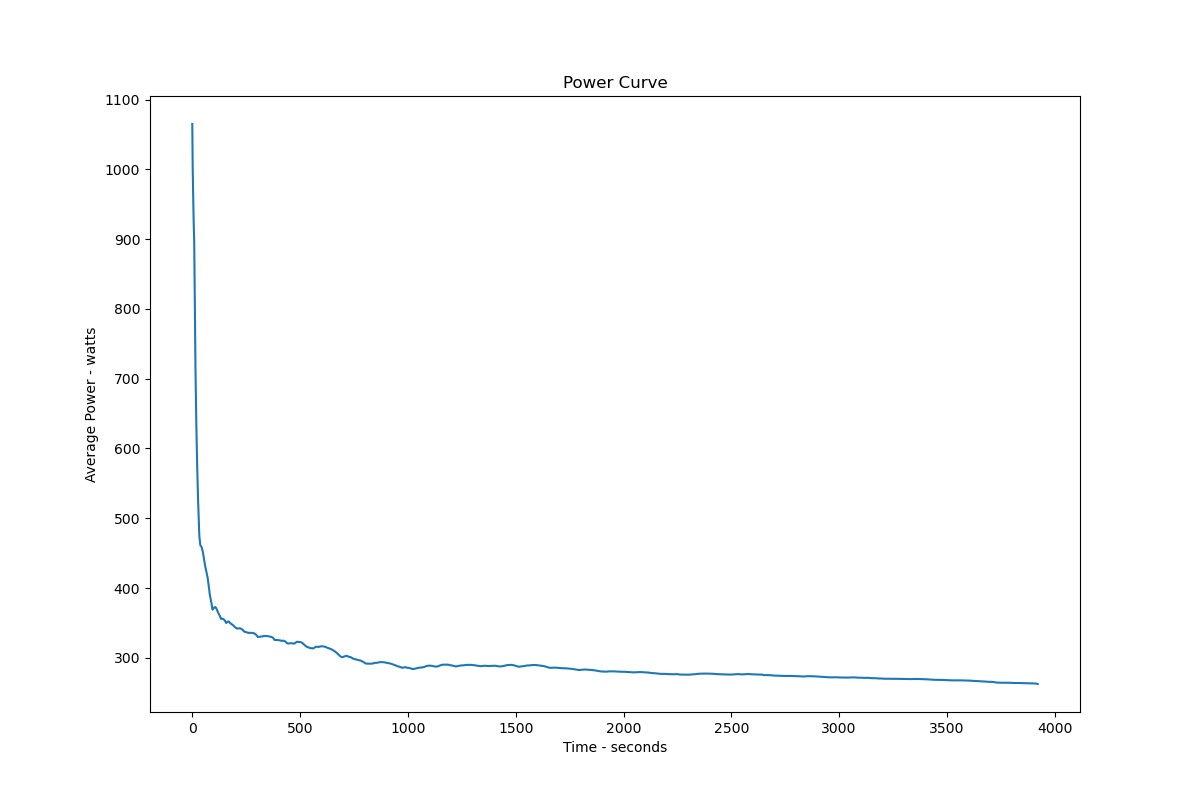
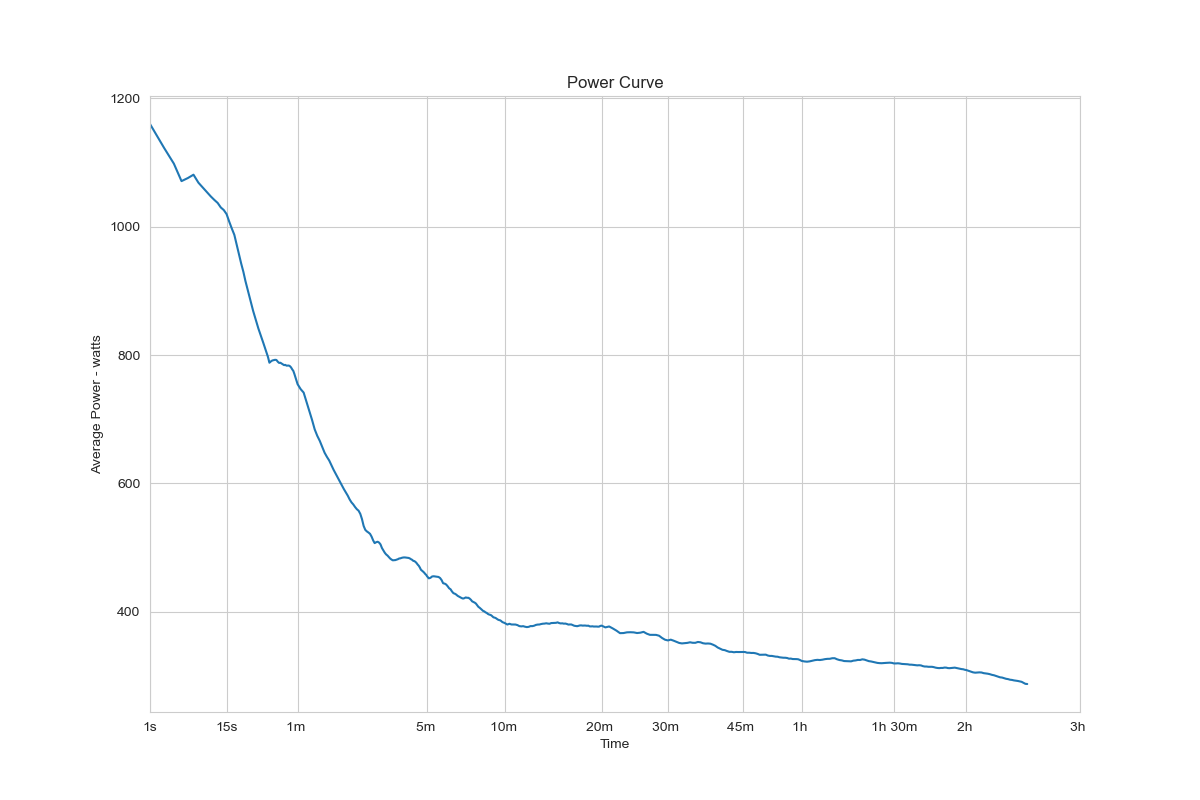
plot results

diff --git a/src/time_interval_helper.py b/src/time_interval_helper.py
@@ -1,0 +1,92 @@
+import numpy as np
+
+# intervals
+# 0 - 60 seconds: 1 second
+# 60 - 5 mins: 3 seconds
+# 5 - 10 mins: 5 seconds
+# 10 - 20 mins: 10 seconds
+# 20 - 60 mins: 30 seconds
+#60 - 120 mins: 45 seconds
+#120 - 3 hours: 1 minute
+# 3 hours +: 5 minutes
+
+def generate_intervals(activity_duration):
+    one_minute = np.arange(1, 60, 1)
+    five_minute = np.arange(60, 300, 3)
+    ten_minute = np.arange(300, 600, 5)
+    twenty_minute = np.arange(600, 1200, 10)
+    sixty_minute = np.arange(1200, 3600, 30)
+    two_hour = np.arange(3600, 7200, 45)
+    three_hour = np.arange(7200, 10800, 60)
+    three_hour_plus = np.arange(7200, activity_duration, 300)
+
+    activity_duration = activity_duration
+    # Activity is longer than 3 hours
+    if activity_duration > 10800:
+        return np.concatenate((one_minute, five_minute, ten_minute, twenty_minute, 
+                               sixty_minute, two_hour, three_hour, three_hour_plus), axis=None)
+    # Activity is 2 to 3 hours
+    if activity_duration > 7200:
+        return np.concatenate((one_minute, five_minute, ten_minute, twenty_minute,sixty_minute, 
+                               two_hour, np.arange(7200, activity_duration, 60)), axis=None)
+    # Activity is 1 to 2 hours
+    if activity_duration > 3600:
+         return np.concatenate((one_minute, five_minute, ten_minute, twenty_minute,
+                               sixty_minute, np.arange(3600, activity_duration, 45)
+                               ), axis=None)
+    # Activity is 20 minutes to 1 hour
+    if activity_duration > 1200:
+         return np.concatenate((one_minute, five_minute, ten_minute, twenty_minute, 
+                                sixty_minute, np.arange(1200, activity_duration, 30)), axis=None)
+    # Activity is 10 to 20 minutes
+    if activity_duration > 600:
+        return np.concatenate((one_minute, five_minute, ten_minute, np.arange(600, activity_duration, 10)), axis=None)
+
+    # Activity is 5 to 10 minutes
+    if activity_duration > 300:
+        return np.concatenate((one_minute, five_minute, np.arange(300, activity_duration, 5)), axis=None)
+    # Activity is less than 5 minutes
+    if  activity_duration > 60:
+        return np.concatenate((one_minute, np.arange(60, activity_duration, 3)), axis=None)
+    
+
+def generate_x_ticks(activity_duration, scale):
+
+    #xticks at one second, 15 seconds, 5 minutes ...
+    xticks = [1, 15, 60, 300, 600, 1200, 1800, 2700, 3600, 5400, 3600 * 2, 3600 * 3, 3600 * 4, 3600 * 5, 3600 * 6, 3600 * 8,
+            3600 * 12, 3600 * 18]
+    
+    # take subset based on activity duration
+    for key, tick in enumerate(xticks):
+        if (activity_duration < tick):
+            xticks = xticks[0:(key+1)]
+            break
+
+    xlabels = []
+    xvalues = []
+
+    # Generate tick marks and labels based on the scale
+    for i in range(0, len(xticks)):
+        xtick_log_value = xticks[i] ** scale
+        try:
+            labelvalue = xticks[i]
+
+            hourvalue = int(labelvalue / 3600)
+            minutevalue = int((labelvalue - hourvalue * 3600) / 60)
+            secondvalue = int(labelvalue - hourvalue * 3600 - minutevalue * 60)
+            if labelvalue < 60:
+                labeltext = str(secondvalue) + 's'
+            elif labelvalue < 3600:
+                labeltext = str(minutevalue) + 'm '
+                if secondvalue != 0:
+                    labeltext += str(secondvalue) + 's'
+            else:
+                labeltext = str(hourvalue) + 'h '
+                if minutevalue != 0:
+                    labeltext += str(minutevalue) + 'm'
+            xvalues.append(xtick_log_value)
+            xlabels.append(labeltext)
+        except:
+            #Reached end of ride
+            continue
+    return xvalues, xlabels

diff --git a/src/kadane-optimization.py b/src/kadane-optimization.py
@@ -1,0 +1,73 @@
+
+import pandas as pd
+import numpy as np
+import seaborn as sns
+import matplotlib.pyplot as plt
+from time_interval_helper import generate_intervals
+from timeit import default_timer as timer
+from plot_helpers import plot_run_time
+from codewong import findMaxAverage
+
+df = pd.read_csv('data/ride-2.csv')
+
+df = df['power'].dropna()
+
+time_intervals = generate_intervals(df.count())
+
+power = df.to_list()
+
+times = []
+bestEfforts = []
+for interval in time_intervals:
+    start = timer()
+    max = findMaxAverage(power, interval)
+    end = timer()
+    times.append(1000 *(end - start))
+    bestEfforts.append(max)
+
+plot_run_time(times, 'Run time - Kadane algorithm with required time intervals', 'figs/run-time-kadane-required-time-intervals.png')
+
+# sns.set_style("whitegrid")
+# # plt.xlabel("Time")
+# # plt.ylabel("Average Power - watts")
+# # plt.savefig('figs/power-curve-v2.png')
+
+
+# plt.figure(figsize=(12,8))
+# sns.lineplot(x=np.arange(0, len(times)), y=times)
+
+# plt.title("Run time - Kadane algorithm with required time intervals", fontsize=14)
+# plt.xlabel("Iteration")
+# plt.ylabel("Time - milliseconds")
+# plt.savefig('figs/run-time-kadane-required-time-intervals.png')
+
+# start = timer()
+times = []
+bestEfforts = []
+for i in range(df.count()):
+    if i > 1:
+        start = timer()
+        max = findMaxAverage(df.to_list(), i)
+        end = timer()
+        times.append(1000 *(end - start))
+        bestEfforts.append(max)
+
+plot_run_time(times, 'Run time - Kadane algorithm', 'figs/run-time-kadane.png')
+# end = timer()
+# print(bestEfforts)
+# print(end - start)
+
+
+# sns.set_style("whitegrid")
+# plt.xlabel("Time")
+# plt.ylabel("Average Power - watts")
+# plt.savefig('figs/power-curve-v2.png')
+
+
+# plt.figure(figsize=(12,8))
+# sns.lineplot(x=np.arange(0, len(times)), y=times)
+
+# plt.title("Run time - Kadane algorithm", fontsize=14)
+# plt.xlabel("Iteration")
+# plt.ylabel("Time - milliseconds")
+# plt.savefig('figs/run-time-kadane.png')

diff --git a/src/best_power_helpers.py b/src/best_power_helpers.py
@@ -14,6 +14,7 @@ def getBestEffort(powerStream: list, previous: list):
         current = []
         j = 0
         max = 0
+        # calculate the rolling window sums, tracking the current max rolling sum
         for key, value in enumerate(powerStream):
             current.append(value + previous[j])
             j += 1
@@ -26,34 +27,18 @@ def getBestEfforts(powerStream: list) -> list:
     bestEfforts = []
     bestEfforts.append(max(powerStream))
     previous = powerStream
+    time = []
     # iterate through time intervals from 2 seconds to duration of activity
     for i in range(len(powerStream) + 1):
         if i > 1:
+            start = timer()
             current, maxPower = getBestEffort(powerStream[(i -1):], previous)
             bestEfforts.append(maxPower/i)
             previous = current
-    return bestEfforts
+            end = timer()
+            time.append(1000 *(end - start))
+    return bestEfforts, time
 
 def get_best_efforts_df(bestEfforts: list) -> pd.DataFrame:
     best_power_df = pd.DataFrame({"power": bestEfforts})
-    best_power_df = best_power_df[best_power_df['power'] > 0]
     return best_power_df
-
-df = pd.read_csv('data/ride.csv')
-
-start = timer()
-bestEfforts = getBestEfforts(df['power'])
-end = timer()
-
-print("Time to calculate best efforts: ", end - start) # Time in seconds, e.g. 5.38091952400282
-best_power_df = get_best_efforts_df(bestEfforts)
-time = np.arange(0, best_power_df['power'].count())
-
-# x_ticks = 1, 10, 
-plt.figure(figsize=(12,8))
-sns.lineplot(x=time, y=best_power_df['power'])
-
-plt.title("Power Curve")
-plt.xlabel("Time - seconds")
-plt.ylabel("Average Power - watts")
-plt.savefig('figs/power-curve.png')

diff --git a/src/plot_helpers.py b/src/plot_helpers.py
@@ -1,0 +1,29 @@
+
+import pandas as pd
+import numpy as np
+import seaborn as sns
+import matplotlib.pyplot as plt
+from time_interval_helper import generate_intervals, generate_x_ticks
+
+def plot_power_curve(intervals, power, xscale: float, file):
+    sns.set_style("whitegrid")
+    plt.figure(figsize=(12,8))
+
+    sns.lineplot(x=intervals**xscale, y=power)
+
+    xvalues, xlabels = generate_x_ticks(intervals[-1], xscale)
+    plt.xticks(xvalues, xlabels, rotation="horizontal")
+    plt.xlim(1)
+    plt.title("Power Curve")
+    plt.xlabel("Time")
+    plt.ylabel("Average Power - watts")
+    plt.savefig(file)
+
+def plot_run_time(run_time, title: str, file: str):
+    sns.set_style("whitegrid")
+    plt.figure(figsize=(12,8))
+    sns.lineplot(x=np.arange(0, len(run_time)), y=run_time)
+    plt.title(title, fontsize=14)
+    plt.xlabel("Iteration")
+    plt.ylabel("Time - milliseconds")
+    plt.savefig(file)

diff --git a/src/critical-power-curve.py b/src/critical-power-curve.py
@@ -1,0 +1,25 @@
+
+import pandas as pd
+import numpy as np
+from time_interval_helper import generate_intervals
+from timeit import default_timer as timer
+import best_power_helpers as power_helper
+from plot_helpers import plot_run_time, plot_power_curve
+ 
+df = pd.read_csv('data/ride-2.csv')
+
+power = df['power'].dropna()
+start = timer()
+bestEfforts, run_time = power_helper.getBestEfforts(power.to_list())
+end = timer()
+
+print("Time to calculate best efforts: ", end - start) # Time in seconds, e.g. 5.38091952400282
+best_power_df = power_helper.get_best_efforts_df(bestEfforts)
+intervals = generate_intervals(power.count())
+df = best_power_df.iloc[intervals]
+
+# time = np.arange(0, best_power_df['power'].count())
+
+plot_power_curve(intervals, df['power'], .3, 'figs/power-curve.png')
+
+plot_run_time(run_time, 'Run time - dynamic programming', 'figs/run-time-dynamic-programming.png')

diff --git a/src/parser.py b/src/parser.py
@@ -4,6 +4,6 @@ import pandas as pd
 def parse_gpx(file) -> pd.DataFrame:
     return gpd.read_file(file, layer='track_points')
 
-df = parse_gpx('data/ride.gpx')
+df = parse_gpx('data/ride-2.gpx')
 
-df.to_csv('data/ride.csv')
+df.to_csv('data/ride-2.csv')

diff --git a/src/codewong.py b/src/codewong.py
@@ -34,5 +34,5 @@ def findMaxAverage(arr, time):
 #test case
 a = [1, 5, 0, 3, 4, 6, 12, 2, 3, 2, 8]
 
-print(calculateAvgEffort(a, 1, 4))
-print(findMaxAverage(a, 4))
+# print(calculateAvgEffort(a, 1, 4))
+# print(findMaxAverage(a, 5))

diff --git a/README.md b/README.md
@@ -29,16 +29,31 @@ make parse
 ```
 Calculate best efforts and create power curve figure:
 ```
-make best-power
+make critical-power-curve
 ```
-We can add timers to compare different approaches:
+We can add timers to compare different approaches. Although running time is variable and dependents on hardware and other factors, it can provide a useful visualize when the environment is constant:
 ```
-Time to calculate best efforts:  4.82058475
+Time to calculate best efforts:  3.088387625 seconds
 ```
-<p>This will generate a power curve with a linear x scale:</p>
+
+<img src="figs/run-time-dynamic-programming.png" width=500>
+
+<p>We can plot the best efforts for the time intervals with a log scale on the x axis:</p>
 
 <img src="figs/power-curve.png" width=500>
 
 <p>
 We can optimize this further by only calculating the relevant best efforts for 5, 10, 15 seconds, 1 min, 5 min, 10 min, etc... Strava uses an x scale with progressive intervals: the spacing between x ticks is 1 second for 0 to 1 minute efforts, and 5 minutes for efforts over 3 hours.
 </p>
+<p>
+As the duration of an effort increases, each value contributes less to the average (this follows from the law of large numbers). Therefore, we don't need to calculate the best efforts for every possible duration to make an accurate power curve. 
+</p>
+Compare the relative running time using all time intervals, and the minimum required time intervals to construct the power curve:
+
+```
+make kadane-optimization
+```
+
+<img src="figs/run-time-kadane.png" width=500>
+
+<img src="figs/run-time-kadane-required-time-intervals.png" width=500>
